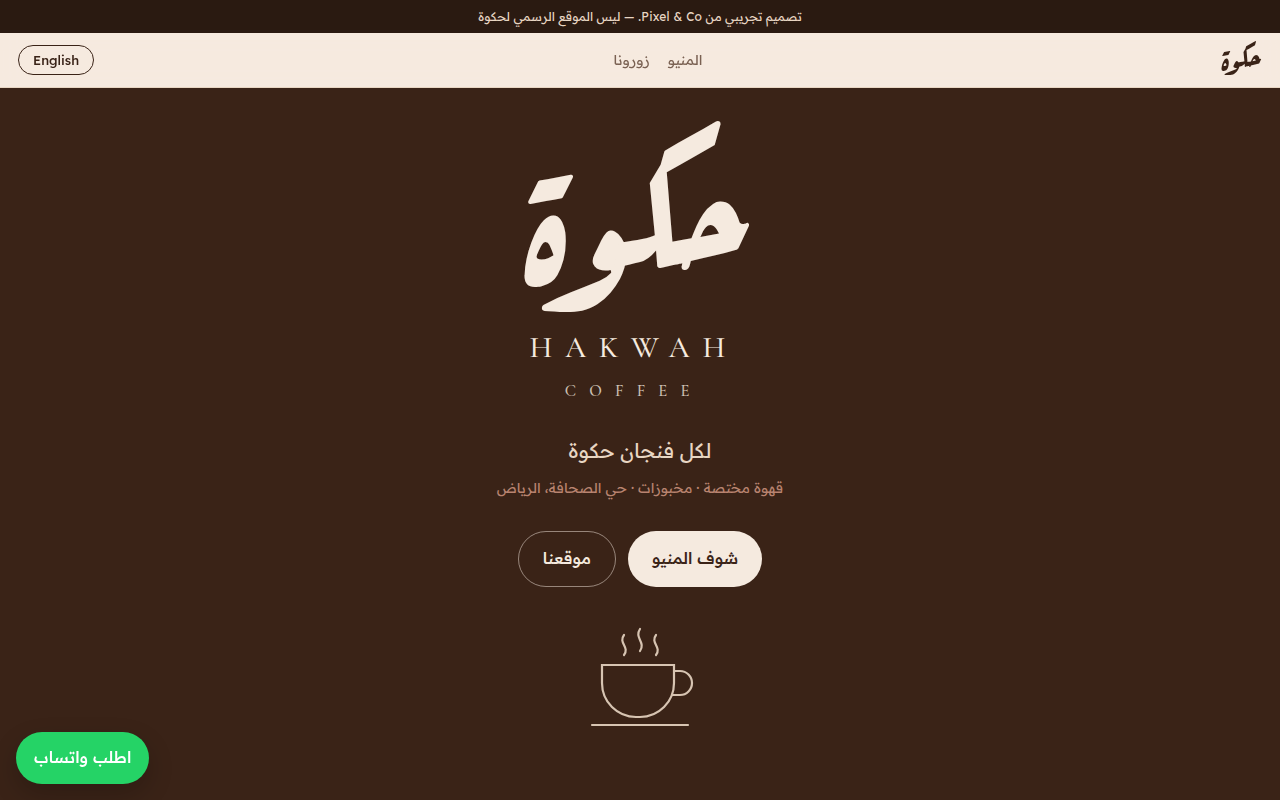
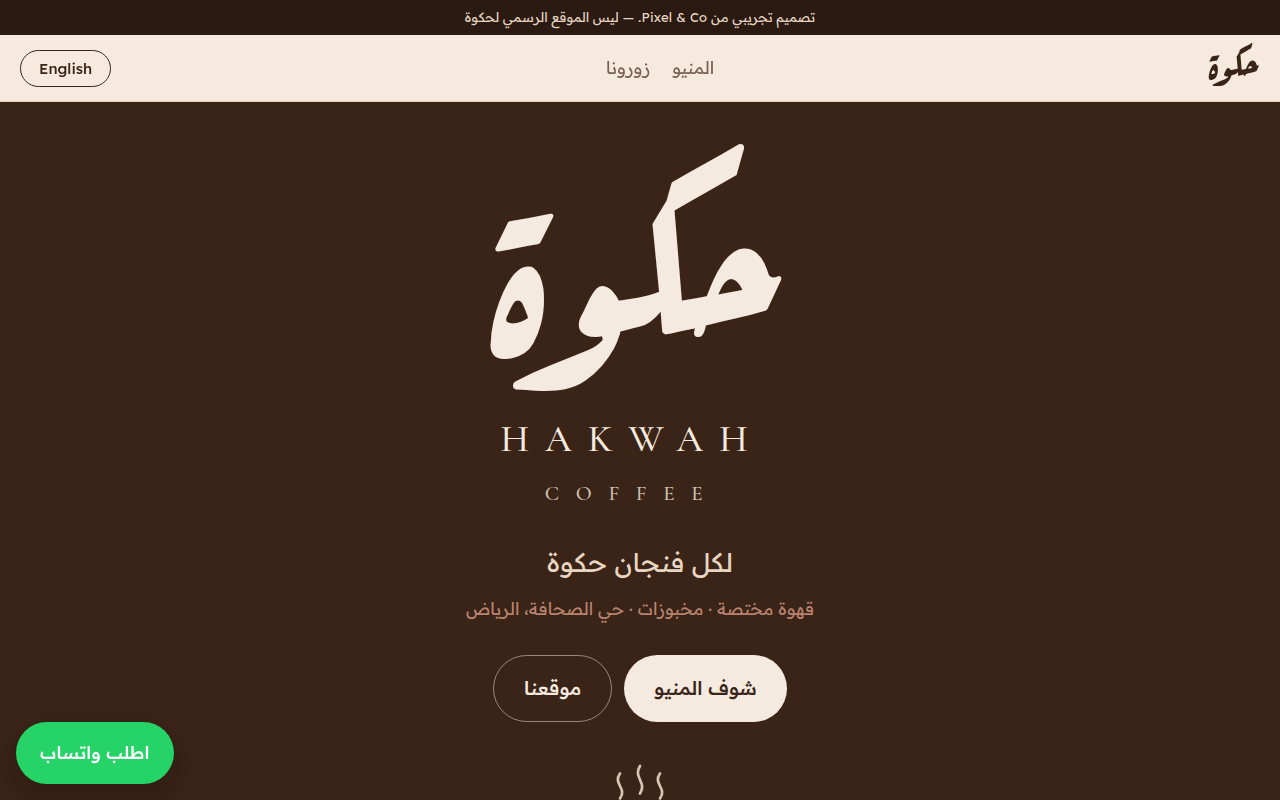
Hakwah sample: larger text, buttons and spacing
Claude-Session: https://claude.ai/code/session_01Euafq2FogkANQy6AHCk7bg

diff --git a/pixel-co/samples/hakwah/index.html b/pixel-co/samples/hakwah/index.html
@@ -16,58 +16,58 @@
 }
 *{box-sizing:border-box}
 html{scroll-behavior:smooth}
-body{margin:0;background:var(--cream);color:var(--ink);font-family:var(--body);font-size:16px;line-height:1.6}
+body{margin:0;background:var(--cream);color:var(--ink);font-family:var(--body);font-size:18px;line-height:1.65}
 a{color:inherit}
 :focus-visible{outline:3px solid var(--rose);outline-offset:3px}
-.sample{background:var(--ink);color:var(--sand);font-size:12px;text-align:center;padding:7px 16px;letter-spacing:.02em}
+.sample{background:var(--ink);color:var(--sand);font-size:13px;text-align:center;padding:7px 16px;letter-spacing:.02em}
 /* Sadu weave band */
-.sadu{height:22px;background:
+.sadu{height:28px;background:
   linear-gradient(45deg,transparent 35%,var(--rose) 35% 45%,transparent 45% 55%,var(--rose) 55% 65%,transparent 65%) 0 0/22px 22px,
   linear-gradient(-45deg,transparent 35%,var(--brown-2) 35% 45%,transparent 45% 55%,var(--brown-2) 55% 65%,transparent 65%) 0 0/22px 22px,
   var(--sand)}
-header.top{position:sticky;top:env(safe-area-inset-top,0px);z-index:5;background:rgba(245,234,223,.94);backdrop-filter:blur(8px);display:flex;align-items:center;justify-content:space-between;gap:12px;padding:12px 18px;border-bottom:1px solid var(--sand)}
-.logo{font-family:var(--ar-display);font-size:30px;line-height:1;color:var(--brown);text-decoration:none}
-nav{display:flex;gap:18px;font-size:14px}
+header.top{position:sticky;top:env(safe-area-inset-top,0px);z-index:5;background:rgba(245,234,223,.94);backdrop-filter:blur(8px);display:flex;align-items:center;justify-content:space-between;gap:12px;padding:14px 20px;border-bottom:1px solid var(--sand)}
+.logo{font-family:var(--ar-display);font-size:38px;line-height:1;color:var(--brown);text-decoration:none}
+nav{display:flex;gap:22px;font-size:17px}
 nav a{text-decoration:none;color:var(--muted)}
-.lang{border:1px solid var(--brown);background:transparent;color:var(--brown);border-radius:999px;padding:6px 14px;font:500 13px var(--body);cursor:pointer}
-.hero{background:var(--brown);color:var(--cream);text-align:center;padding:56px 20px 64px;position:relative;overflow:hidden}
-.hero .mark{font-family:var(--ar-display);font-size:clamp(96px,26vw,170px);line-height:1;margin:0}
-.hero .en{font-family:var(--en-display);letter-spacing:.42em;font-size:clamp(20px,5vw,30px);margin:10px 0 0;padding-inline-start:.42em}
+.lang{border:1px solid var(--brown);background:transparent;color:var(--brown);border-radius:999px;padding:8px 18px;font:500 15px var(--body);cursor:pointer}
+.hero{background:var(--brown);color:var(--cream);text-align:center;padding:72px 20px 80px;position:relative;overflow:hidden}
+.hero .mark{font-family:var(--ar-display);font-size:clamp(120px,34vw,220px);line-height:1;margin:0}
+.hero .en{font-family:var(--en-display);letter-spacing:.42em;font-size:clamp(24px,6.4vw,38px);margin:14px 0 0;padding-inline-start:.42em}
 .hero .en small{display:block;font-size:.55em;letter-spacing:.8em;margin-top:6px;opacity:.8}
-.hero .tag{font-size:20px;margin:30px auto 0;max-width:30ch;color:var(--sand)}
-.hero .meta{font-size:14px;color:var(--rose);margin-top:10px;letter-spacing:.04em}
+.hero .tag{font-size:26px;margin:30px auto 0;max-width:30ch;color:var(--sand)}
+.hero .meta{font-size:17px;color:var(--rose);margin-top:10px;letter-spacing:.04em}
 .cta{display:flex;gap:12px;justify-content:center;flex-wrap:wrap;margin-top:32px}
-.btn{display:inline-flex;align-items:center;gap:8px;text-decoration:none;font-weight:500;font-size:16px;padding:14px 24px;border-radius:999px;background:var(--cream);color:var(--brown)}
+.btn{display:inline-flex;align-items:center;gap:8px;text-decoration:none;font-weight:500;font-size:19px;padding:17px 30px;border-radius:999px;background:var(--cream);color:var(--brown)}
 .btn.line{background:transparent;color:var(--cream);border:1px solid rgba(245,234,223,.5)}
-.cup{width:120px;margin:34px auto 0;opacity:.9}
-section{padding:56px 20px;max-width:760px;margin:0 auto}
-.eyebrow{font-size:13px;letter-spacing:.2em;text-transform:uppercase;color:var(--rose);margin:0 0 6px}
-h2{font-family:var(--ar-display);font-size:44px;line-height:1.15;margin:0;color:var(--brown)}
-html[lang=en] h2{font-family:var(--en-display);font-weight:600;font-size:44px}
+.cup{width:150px;margin:34px auto 0;opacity:.9}
+section{padding:72px 20px;max-width:900px;margin:0 auto}
+.eyebrow{font-size:15px;letter-spacing:.2em;text-transform:uppercase;color:var(--rose);margin:0 0 6px}
+h2{font-family:var(--ar-display);font-size:58px;line-height:1.15;margin:0;color:var(--brown)}
+html[lang=en] h2{font-family:var(--en-display);font-weight:600;font-size:56px}
 .tabs{display:flex;gap:8px;margin:26px 0 8px;flex-wrap:wrap}
-.tabs button{border:1px solid var(--sand);background:#fff8f1;color:var(--muted);border-radius:999px;padding:8px 16px;font:500 14px var(--body);cursor:pointer}
+.tabs button{border:1px solid var(--sand);background:#fff8f1;color:var(--muted);border-radius:999px;padding:11px 20px;font:500 17px var(--body);cursor:pointer}
 .tabs button[aria-selected=true]{background:var(--brown);border-color:var(--brown);color:var(--cream)}
 .menu{list-style:none;padding:0;margin:0}
-.menu li{display:flex;align-items:baseline;gap:12px;padding:15px 0;border-bottom:1px dashed #d9c3ae}
-.menu .name{font-weight:500}
-.menu .sub{display:block;font-size:13px;color:var(--muted);font-weight:300}
+.menu li{display:flex;align-items:baseline;gap:14px;padding:19px 0;border-bottom:1px dashed #d9c3ae}
+.menu .name{font-weight:500;font-size:20px}
+.menu .sub{display:block;font-size:15px;color:var(--muted);font-weight:300}
 .menu .dots{flex:1;border-bottom:1px dotted #cbb39c;transform:translateY(-4px);min-width:16px}
-.menu .price{font-variant-numeric:tabular-nums;font-weight:600;color:var(--brown);white-space:nowrap}
-.note{margin-top:18px;background:#EFE3D5;border-radius:14px;padding:12px 16px;font-size:14px;color:var(--brown-2)}
-.soon{padding:26px 0;color:var(--muted);font-size:15px}
-.visit{background:var(--brown);color:var(--cream);border-radius:28px;padding:34px 26px;display:grid;gap:22px}
+.menu .price{font-size:20px;font-variant-numeric:tabular-nums;font-weight:600;color:var(--brown);white-space:nowrap}
+.note{margin-top:18px;background:#EFE3D5;border-radius:14px;padding:16px 20px;font-size:17px;color:var(--brown-2)}
+.soon{padding:30px 0;color:var(--muted);font-size:18px}
+.visit{background:var(--brown);color:var(--cream);border-radius:32px;padding:42px 30px;display:grid;gap:22px}
 .visit h2{color:var(--cream)}
 .rows{display:grid;gap:14px}
 .row{display:flex;gap:14px;align-items:flex-start}
-.row svg{flex:none;width:22px;height:22px;margin-top:3px;stroke:var(--rose)}
-.row b{display:block;font-weight:500}
-.row span{color:var(--sand);font-size:15px}
+.row svg{flex:none;width:28px;height:28px;margin-top:3px;stroke:var(--rose)}
+.row b{display:block;font-weight:500;font-size:20px}
+.row span{color:var(--sand);font-size:17px}
 .visit .cta{justify-content:flex-start;margin-top:4px}
 .gallery{display:grid;grid-template-columns:repeat(3,1fr);gap:10px;margin-top:22px}
-.gallery div{aspect-ratio:1;border-radius:18px;background:#EADBCB;display:flex;align-items:center;justify-content:center;color:var(--muted);font-size:12px;text-align:center;padding:8px}
-footer{background:var(--ink);color:var(--sand);text-align:center;padding:32px 20px calc(32px + env(safe-area-inset-bottom,0px));font-size:14px}
-footer .logo{color:var(--cream);font-size:40px;display:block;margin-bottom:8px}
-.float{position:fixed;inset-inline-end:16px;bottom:calc(16px + env(safe-area-inset-bottom,0px));z-index:6;background:#25D366;color:#fff;text-decoration:none;border-radius:999px;padding:13px 18px;font-weight:500;display:flex;gap:8px;align-items:center;box-shadow:0 10px 26px rgba(0,0,0,.2)}
+.gallery div{aspect-ratio:1;border-radius:18px;background:#EADBCB;display:flex;align-items:center;justify-content:center;color:var(--muted);font-size:15px;text-align:center;padding:8px}
+footer{background:var(--ink);color:var(--sand);text-align:center;padding:44px 20px calc(44px + env(safe-area-inset-bottom,0px));font-size:17px}
+footer .logo{color:var(--cream);font-size:56px;display:block;margin-bottom:8px}
+.float{position:fixed;inset-inline-end:16px;bottom:calc(16px + env(safe-area-inset-bottom,0px));z-index:6;background:#25D366;color:#fff;text-decoration:none;border-radius:999px;padding:16px 24px;font-size:18px;font-weight:500;display:flex;gap:8px;align-items:center;box-shadow:0 10px 26px rgba(0,0,0,.2)}
 @media (max-width:560px){nav{display:none}}
 @media (prefers-reduced-motion:reduce){html{scroll-behavior:auto}}
 </style>
